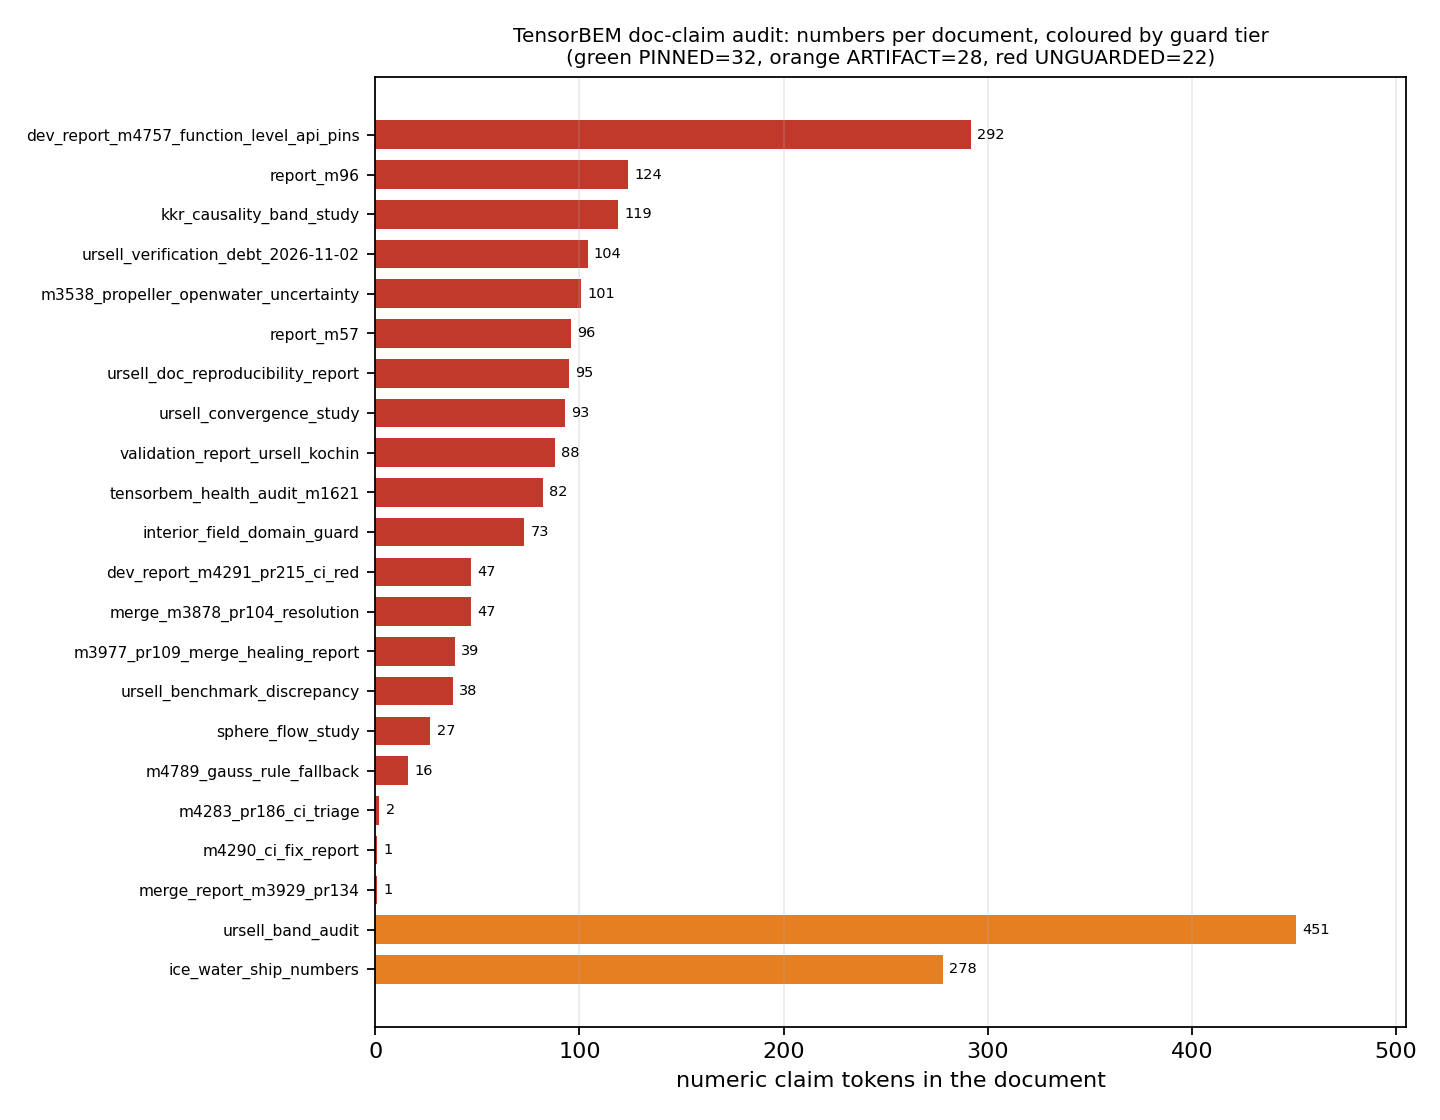
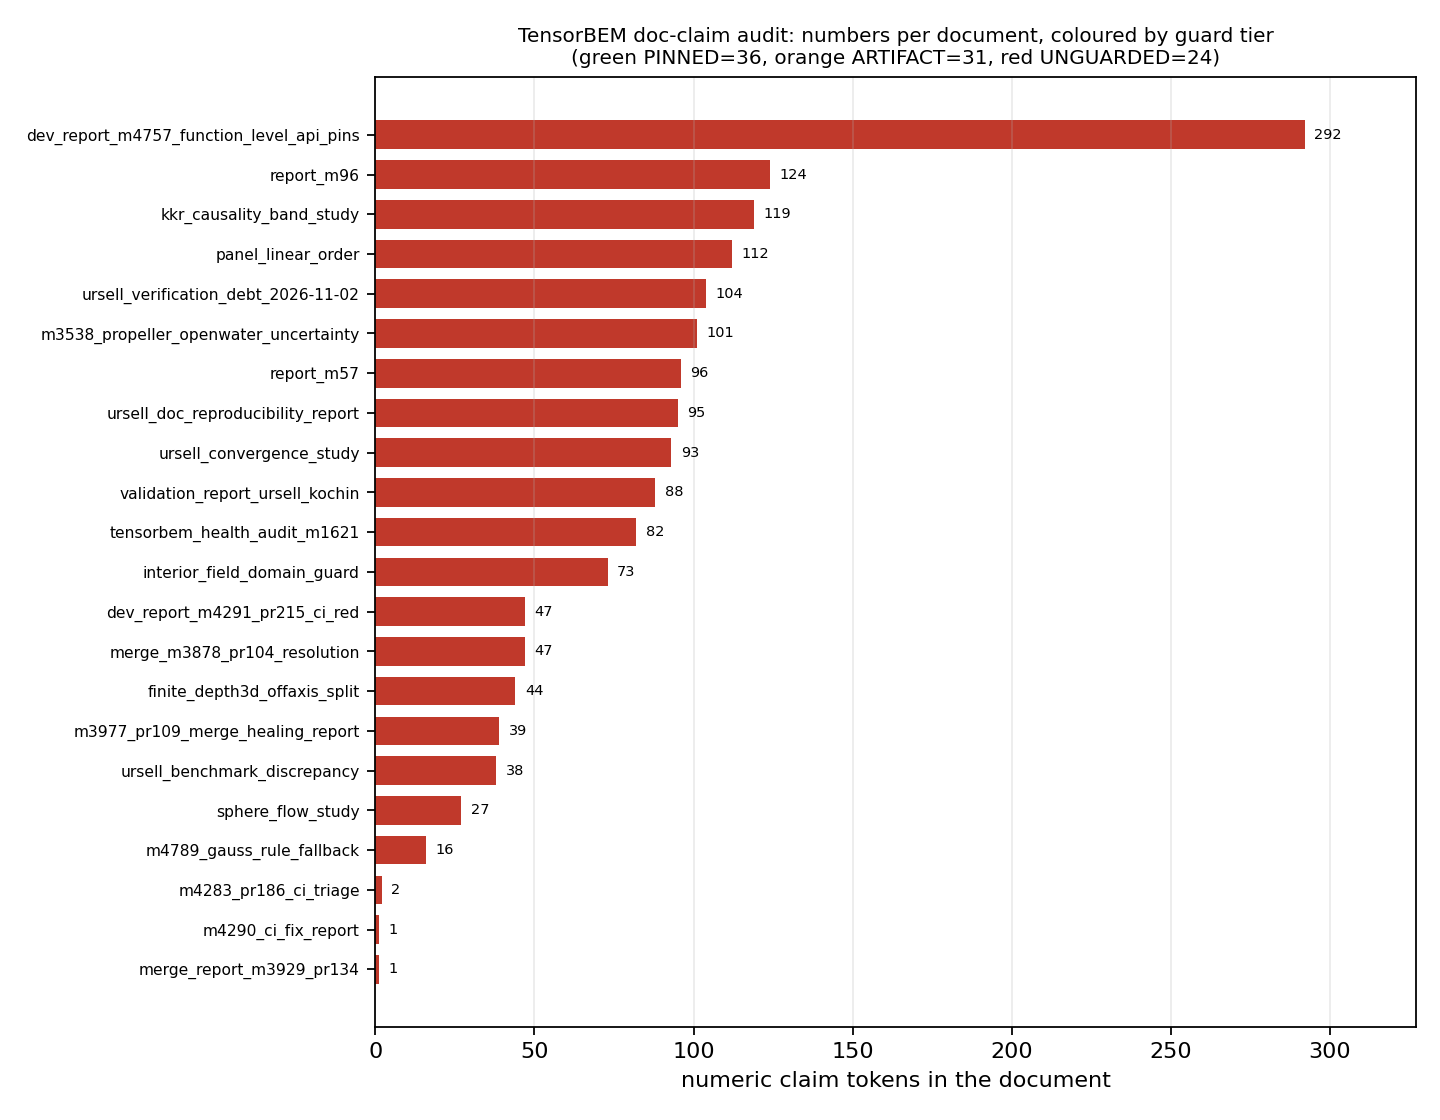
m6354: matured mission deliverables（5 个文件被门禁滤除）

diff --git a/tests/test_maruo_drift.py b/tests/test_maruo_drift.py
@@ -26,7 +26,9 @@ control-surface derivation in ``tensorbem.drift.far_field_drift_3d``.
 
 from __future__ import annotations
 
+import json
 import math
+import pathlib
 
 import numpy as np
 import pytest
@@ -306,3 +308,75 @@ def test_report_figures_render(tmp_path):
     driver.figure_resolution(tmp_path / "resolution.png", report)
     assert (tmp_path / "polar.png").stat().st_size > 10_000
     assert (tmp_path / "resolution.png").stat().st_size > 10_000
+
+
+# ---------------------------------------------------------------------------
+# the published m6287 evidence bundle must reproduce a fresh build (m6287)
+# ---------------------------------------------------------------------------
+def _repo_root():
+    return pathlib.Path(__file__).resolve().parents[1]
+
+
+def _build_report_module():
+    path = _repo_root() / "docs" / "m6287" / "build_report.py"
+    if not path.is_file():
+        pytest.skip("docs/m6287 evidence bundle is absent")
+    import importlib.util
+
+    spec = importlib.util.spec_from_file_location("m6287_build_report", path)
+    module = importlib.util.module_from_spec(spec)
+    spec.loader.exec_module(module)
+    return module
+
+
+def test_docs_m6287_artifact_reproduces_against_the_module(tmp_path):
+    """The JSON and Markdown in docs/m6287 are build output, not prose.
+
+    A fresh build must reproduce both byte for byte (so a hand-edited number or
+    a changed module fails here), and the verdicts it publishes must be the
+    measured ones: the shipped covariant weight inside 3 %, the pre-m6271
+    weight outside the 15 % acceptance limit.
+    """
+    bundle = _repo_root() / "docs" / "m6287"
+    builder = _build_report_module()
+    json_path = bundle / "maruo_general_heading_fix.json"
+    md_path = bundle / "maruo_general_heading_fix.md"
+    recorded = json.loads(json_path.read_text(encoding="utf-8"))
+
+    fresh = builder.main(path=tmp_path / "fresh.json", markdown=tmp_path / "fresh.md")
+    assert fresh["summary"] == recorded["summary"]
+    assert json.loads((tmp_path / "fresh.json").read_text(encoding="utf-8")) == recorded
+    assert (tmp_path / "fresh.md").read_text(encoding="utf-8") == md_path.read_text(encoding="utf-8")
+
+    summary = recorded["summary"]
+    assert summary["rel_err_covariant_max"] < 0.03
+    assert summary["closed_form_within_3pct_covariant"] is True
+    assert summary["rel_err_legacy_max"] > 0.15
+    assert summary["closed_form_within_15pct_legacy"] is False
+    assert summary["worst_legacy_heading_deg"] == pytest.approx(180.0)
+
+    beam = recorded["key_cases"]["beam_seas"]
+    # the pre-m6271 weight annihilated the beam-sea side force; the shipped one does not
+    assert abs(beam["fx_legacy"]) < 1e-6
+    assert beam["fx_covariant"] < -1e3
+    assert beam["rel_err_legacy"] > 0.3
+
+
+def test_docs_m6287_figure_renders(tmp_path):
+    pytest.importorskip("matplotlib")
+    import importlib.util
+
+    path = _repo_root() / "docs" / "m6287" / "render_report.py"
+    if not path.is_file():
+        pytest.skip("docs/m6287 evidence bundle is absent")
+    spec = importlib.util.spec_from_file_location("m6287_render_report", path)
+    module = importlib.util.module_from_spec(spec)
+    spec.loader.exec_module(module)
+
+    report = json.loads(
+        (_repo_root() / "docs" / "m6287" / "maruo_general_heading_fix.json").read_text(encoding="utf-8")
+    )
+    out = module.render(report, tmp_path / "fig1.png")
+    assert out.stat().st_size > 20_000
+    published = _repo_root() / "docs" / "m6287" / "figures" / "fig1_heading_error.png"
+    assert published.is_file() and published.stat().st_size > 20_000

diff --git a/src/tensorbem/capability_evidence.py b/src/tensorbem/capability_evidence.py
@@ -601,6 +601,31 @@ CAPABILITIES: tuple[Capability, ...] = (
         note='Absent from the 2026-10-29 table; the capability existed there as prose only.',
     ),
     Capability(
+        key='maruo-far-field-drift',
+        title='Maruo far-field mean drift force at arbitrary heading',
+        claim=(
+            'The azimuthal Maruo integral with the frame-covariant weight e_beta - e_theta '
+            'reproduces the closed-form drift force (rho g/4)(2 pi C^2 e_beta - a pi C^2 e_gamma) '
+            'of a Kochin pattern |K|^2 = C^2 (1 + a cos(theta - gamma)) at every heading to '
+            '< 1e-5 relative, and rotating body and incident waves together by alpha rotates '
+            'the force by alpha (residual < 1e-9).'
+        ),
+        level=REAL,
+        modules=('tensorbem.maruo_drift',),
+        symbols=('maruo_mean_drift_force', 'maruo_mean_drift_force_general'),
+        tests=(
+            'tests/test_maruo_drift.py::test_isotropic_kochin_pushes_along_propagation',
+            'tests/test_maruo_drift.py::test_closed_form_for_rotated_scattering_pattern',
+            'tests/test_maruo_drift.py::test_rotational_covariance',
+            'tests/test_maruo_drift.py::test_beam_and_following_seas_for_asymmetric_scatterer',
+        ),
+        docs=(('docs/maruo_drift.md', 'Maruo'),),
+        note=(
+            'The reference is the closed-form azimuthal integral of the same far-field theory, not '
+            'experimental drift data; the sampled Kochin table, not n_theta, sets the accuracy floor.'
+        ),
+    ),
+    Capability(
         key='time-domain-memory-kernel',
         title='Time-domain radiation memory kernel (Cummins equation)',
         claim='The Fourier round trip returns A and B for an exact exponential pair and the Cummins free decay reproduces the auxiliary-ODE characteristic decay.',
@@ -745,10 +770,6 @@ UNTESTED_MODULES: dict[str, str] = {
         "matplotlib helper rendering report figures from JSON artifacts; exercised during figure builds.",
     "tensorbem.benchmarks.ursell_quadrature_study":
         "one-off quadrature study superseded by tests/test_ursell_quadrature_convergence.py.",
-    "tensorbem.maruo_drift":
-        "azimuthal-quadrature wrapper around the Maruo far-field integral; graded through the"
-        " second-order-drift row, but it has no dedicated numeric anchor of its own yet -- that"
-        " anchor is owed, and this entry records the debt instead of hiding it.",
     "tensorbem.benchmarks.panel_linear_order":
         "study driver that writes docs/panel_linear_order/study.json and its figures; the operator it"
         " drives is pinned by tests/test_panel_linear_order.py and graded by the linear-panel-operators row.",
@@ -1287,7 +1308,9 @@ def write_document(root: pathlib.Path | None = None) -> pathlib.Path:
     except ValueError:
         text = text.rstrip() + "\n\n" + BEGIN_MARKER + "\n\n" + END_MARKER + "\n"
         published = extract_document_block(text)
-    expected = render_document_block(audit(root), untested_modules(root))
+    expected = render_document_block(
+        audit(root), untested_modules(root), capability_coverage(root)
+    )
     path.write_text(text.replace(published, expected), encoding="utf-8")
     return path
 

diff --git a/tests/test_capability_evidence.py b/tests/test_capability_evidence.py
@@ -251,3 +251,60 @@ def test_seeded_randomness_is_not_treated_as_a_mock(tmp_path: pathlib.Path, monk
                    tmp_path, ce._test_nodes(tmp_path))
     assert row.level == ce.WITHHELD  # only the doc anchor is missing, not MOCK
     assert row.mock_markers == []
+
+
+# ---------------------------------------------------------------------------
+# the refresh path must reproduce the block the drift check compares (m6287)
+# ---------------------------------------------------------------------------
+def test_write_document_refreshes_the_block_it_compares(
+    tmp_path: pathlib.Path, monkeypatch: pytest.MonkeyPatch
+) -> None:
+    """``--write`` used to drop the capability-coverage section.
+
+    ``write_document`` rendered the block without ``capability_coverage``, so a
+    document refreshed through the tool could never satisfy ``document_drift``:
+    every hand-edit was reported as drift but the repair path produced a
+    *different* incomplete block.  The published baseline is copied to a
+    scratch path, hand-damaged, refreshed, and must come back drift-free.
+    """
+    root = ce.repo_root()
+    copy = tmp_path / "audit_baseline.md"
+    damaged = (root / ce.BASELINE_DOC).read_text(encoding="utf-8").replace(
+        "### Capability coverage", "### Coverage (edited by hand)"
+    )
+    assert "edited by hand" in damaged
+    copy.write_text(damaged, encoding="utf-8")
+    monkeypatch.setattr(ce, "BASELINE_DOC", str(copy))
+
+    assert ce.document_drift(root) is not None
+    ce.write_document(root)
+    assert ce.document_drift(root) is None
+    refreshed = copy.read_text(encoding="utf-8")
+    assert "### Capability coverage" in refreshed
+    assert "unowned" in refreshed
+
+
+def test_maruo_drift_is_graded_by_an_anchor_of_its_own() -> None:
+    """The Maruo far-field row owns its numeric anchor; the debt entry is gone."""
+    rows = {row.capability.key: row for row in ce.audit()}
+    row = rows["maruo-far-field-drift"]
+    assert row.level == ce.REAL, (row.level, row.reasons)
+    assert row.test_nodes >= 4
+    assert not row.missing_tests and not row.missing_docs and not row.missing_symbols
+    assert row.capability.modules == ("tensorbem.maruo_drift",)
+    # the module has a suite, so a "no dedicated anchor" reason would be a lie
+    assert "tensorbem.maruo_drift" not in ce.UNTESTED_MODULES
+    assert ce.untested_modules(ce.repo_root())["stale_reasons"] == []
+
+
+def test_every_untested_reason_is_still_true() -> None:
+    """A reason that names a superseding suite must name a suite that exists."""
+    root = ce.repo_root()
+    inventory = ce.untested_modules(root)
+    assert inventory["stale_reasons"] == []
+    for module in inventory["explained"]:
+        reason = ce.UNTESTED_MODULES[module]
+        for token in reason.replace(",", " ").split():
+            token = token.rstrip(".,;:)")
+            if token.startswith("tests/") and token.endswith(".py"):
+                assert (root / token).is_file(), (module, token)

diff --git a/docs/doc_claim_audit.md b/docs/doc_claim_audit.md
@@ -6,27 +6,29 @@
 
 | 指标 | 值 |
 |---|---:|
-| 被审计文档数 | 82 |
-| PINNED（测试直接解析文档） | 32 |
-| ARTIFACT（生成模块被测、文档文本未解析） | 28 |
-| UNGUARDED（无人守） | 22 |
-| 其中论文级 UNGUARDED | 8 |
-| 数字 token 总数 | 9235 |
-| 已守数字 token | 7750 |
-| 数字覆盖率 | 83.9% |
-| 文档覆盖率 | 73.2% |
+| 被审计文档数 | 91 |
+| PINNED（测试直接解析文档） | 36 |
+| ARTIFACT（生成模块被测、文档文本未解析） | 31 |
+| UNGUARDED（无人守） | 24 |
+| 其中论文级 UNGUARDED | 10 |
+| 数字 token 总数 | 10555 |
+| 已守数字 token | 8914 |
+| 数字覆盖率 | 84.5% |
+| 文档覆盖率 | 73.6% |
 
 ## 2. 论文级未守文档（按数字量降序，前 15）
 
 | 文档 | 数字 token | 行数 | 声明的生成器 | 现状 |
 |---|---:|---:|---|---|
 | `kkr_causality_band_study.md` | 119 | 176 | — | no declared generator and no reading test |
+| `panel_linear_order.md` | 112 | 124 | `tensorbem.benchmarks.panel_linear_order` | generator never exercised by a test |
 | `ursell_verification_debt_2026-11-02.md` | 104 | 156 | — | no declared generator and no reading test |
 | `m3538_propeller_openwater_uncertainty.md` | 101 | 156 | — | no declared generator and no reading test |
 | `ursell_doc_reproducibility_report.md` | 95 | 58 | — | no declared generator and no reading test |
 | `ursell_convergence_study.md` | 93 | 201 | — | no declared generator and no reading test |
 | `validation_report_ursell_kochin.md` | 88 | 173 | — | no declared generator and no reading test |
 | `interior_field_domain_guard.md` | 73 | 157 | — | no declared generator and no reading test |
+| `finite_depth3d_offaxis_split.md` | 44 | 70 | — | no declared generator and no reading test |
 | `sphere_flow_study.md` | 27 | 6 | — | no declared generator and no reading test |
 
 ## 3. 全部文档分层
@@ -34,14 +36,17 @@
 | document | tier | numbers | lines | generator |
 |---|---|---:|---:|---|
 | `kkr_causality_band_study.md` | UNGUARDED | 119 | 176 | — |
+| `panel_linear_order.md` | UNGUARDED | 112 | 124 | `tensorbem.benchmarks.panel_linear_order` |
 | `ursell_verification_debt_2026-11-02.md` | UNGUARDED | 104 | 156 | — |
 | `m3538_propeller_openwater_uncertainty.md` | UNGUARDED | 101 | 156 | — |
 | `ursell_doc_reproducibility_report.md` | UNGUARDED | 95 | 58 | — |
 | `ursell_convergence_study.md` | UNGUARDED | 93 | 201 | — |
 | `validation_report_ursell_kochin.md` | UNGUARDED | 88 | 173 | — |
 | `interior_field_domain_guard.md` | UNGUARDED | 73 | 157 | — |
+| `finite_depth3d_offaxis_split.md` | UNGUARDED | 44 | 70 | — |
 | `sphere_flow_study.md` | UNGUARDED | 27 | 6 | — |
 | `ice_water_ship_numbers.md` | ARTIFACT | 278 | 101 | `tensorbem.benchmarks.ice_ship_verification` |
+| `michell_validation.md` | ARTIFACT | 255 | 351 | `tensorbem.benchmarks.michell_validation` |
 | `irregular_frequency_study.md` | ARTIFACT | 233 | 180 | `tensorbem.benchmarks.irregular_frequency_study` |
 | `near_surface_error_budget.md` | ARTIFACT | 219 | 202 | `tensorbem.benchmarks.near_surface_error_budget` |
 | `ice_water_ship.md` | ARTIFACT | 150 | 344 | `tensorbem.benchmarks.ice_ship_verification` |
@@ -53,6 +58,7 @@
 | `time_domain_pulse.md` | ARTIFACT | 104 | 343 | `tensorbem.benchmarks.time_domain_pulse` |
 | `annulus_multicomponent.md` | ARTIFACT | 102 | 232 | `tensorbem.benchmarks.multicomponent_annulus` |
 | `finite_depth_diffraction.md` | ARTIFACT | 102 | 145 | `tensorbem.benchmarks.finite_depth_diffraction` |
+| `drift_force_report.md` | ARTIFACT | 87 | 167 | `tensorbem.benchmarks.drift_force_study` |
 | `ursell_error_budget.md` | ARTIFACT | 65 | 89 | `tensorbem.benchmarks.ursell_error_budget` |
 | `long_capsule_2d_limit.md` | ARTIFACT | 62 | 125 | `tensorbem.benchmarks.cylinder_3d_limit` |
 | `finite_depth3d_deepwater_arbitration.md` | ARTIFACT | 60 | 200 | `tensorbem.benchmarks.finite_depth3d_deepwater_arbitration` |
@@ -62,12 +68,16 @@
 | `two_cylinder_added_mass.md` | ARTIFACT | 38 | 145 | `tensorbem.benchmarks.two_cylinder_added_mass` |
 | `doc_claim_gate_portability.md` | ARTIFACT | 36 | 122 | `tensorbem.doc_claims` |
 | `readme_claim_inventory.md` | ARTIFACT | 20 | 140 | `tensorbem.benchmarks.doc_inventory` |
+| `capability_registry_coverage.md` | ARTIFACT | 0 | 118 | `tensorbem.benchmarks.capability_coverage_study`, `tensorbem.capability_evidence` |
 | `marine_bem_benchmarks.md` | PINNED | 701 | 667 | `tensorbem.benchmarks.cylinder_added_mass`, `tensorbem.benchmarks.sphere_added_mass`, `tensorbem.benchmarks.three_dimensional_study`, `tensorbem.benchmarks.ursell_cylinder`, `tensorbem.benchmarks.ursell_convergence_table`, `tensorbem.benchmarks.rigid_body_added_mass`, `tensorbem.benchmarks.dean_diffraction`, `tensorbem.benchmarks.maccamy_fuchs`, `tensorbem.benchmarks.floating_hemisphere`, `tensorbem.benchmarks.declared_numbers`, `tensorbem.benchmarks.submerged_sphere_wave` |
 | `hydrostatic_restoring_waterplane_curvature.md` | PINNED | 415 | 199 | `tensorbem.benchmarks.hydrostatic_restoring_pins` |
 | `finite_depth_envelope.md` | PINNED | 362 | 172 | `tensorbem.benchmarks.finite_depth_envelope` |
+| `panel_operator_order.md` | PINNED | 323 | 240 | `tensorbem.benchmarks.panel_operator_order` |
 | `three_dimensional_bem.md` | PINNED | 271 | 570 | `tensorbem.benchmarks.mesh_doc_pins`, `tensorbem.benchmarks.sphere_added_mass`, `tensorbem.benchmarks.three_dimensional_study`, `tensorbem.benchmarks.sphere_velocity`, `tensorbem.benchmarks.surface_velocity_study`, `tensorbem.benchmarks.three_dimensional_doc_pins`, `tensorbem.benchmarks.prose_claims` |
 | `lifting_camber.md` | PINNED | 244 | 152 | `tensorbem.benchmarks.lifting_camber` |
+| `bem_verified_anchors.md` | PINNED | 228 | 238 | `tensorbem.benchmarks.bem_verified_anchors` |
 | `classical_benchmarks.md` | PINNED | 209 | 376 | `tensorbem.benchmarks.declared_numbers`, `tensorbem.benchmarks.interior_harmonics`, `tensorbem.benchmarks.ellipse_added_mass`, `tensorbem.benchmarks.ellipsoid_added_mass`, `tensorbem.benchmarks.classical_study` |
+| `bem_hydroelastic.md` | PINNED | 176 | 197 | `tensorbem.benchmarks.hydroelastic_verification` |
 | `lifting_kutta_closure.md` | PINNED | 174 | 112 | `tensorbem.benchmarks.lifting_solver` |
 | `annulus_laplace.md` | PINNED | 158 | 199 | `tensorbem.benchmarks.annulus_laplace` |
 | `verification.md` | PINNED | 132 | 255 | `tensorbem.benchmarks.analytical_suite` |
@@ -77,6 +87,7 @@
 | `mixed_boundary_conditions.md` | PINNED | 107 | 186 | `tensorbem.benchmarks.mixed_boundary` |
 | `wigley_wave_resistance.md` | PINNED | 105 | 384 | `tensorbem.benchmarks.wigley_verification` |
 | `finite_depth3d_offaxis_diagnosis.md` | PINNED | 98 | 268 | — |
+| `maruo_drift.md` | PINNED | 95 | 206 | `tensorbem.benchmarks.maruo_drift_verification` |
 | `finite_depth3d_regime.md` | PINNED | 80 | 143 | — |
 | `hydrostatic_restoring_couplings.md` | PINNED | 80 | 137 | — |
 | `six_dof_matrix_algebra.md` | PINNED | 78 | 166 | `tensorbem.benchmarks.six_dof_matrix_algebra` |
@@ -104,12 +115,3 @@
 | `audit_m56_final.md` | ARTIFACT | 91 | 214 | `tensorbem.benchmarks.ursell_cylinder`, `tensorbem.benchmarks.floating_hemisphere` |
 | `dev_report_tensorbem-ursell-band-audit.md` | ARTIFACT | 65 | 80 | `tensorbem.benchmarks.ursell_band_audit` |
 | `dev_report_m4741_hydrostatic_restoring_pins.md` | ARTIFACT | 34 | 110 | `tensorbem.benchmarks.hydrostatic_restoring_pins` |
-| `dev_report_m4614_doc_claim_audit_ratchet.md` | ARTIFACT | 8 | 251 | `tensorbem.benchmarks.doc_claim_audit` |
-| `dev_report_m4317_pr209_capability_baseline.md` | ARTIFACT | 0 | 94 | `tensorbem.capability_evidence` |
-| `project_review_2026-10-22.md` | PINNED | 227 | 522 | `tensorbem.benchmarks.unit_disk`, `tensorbem.benchmarks.cylinder_added_mass`, `tensorbem.benchmarks.refinement_study`, `tensorbem.benchmarks.analytical_suite`, `tensorbem.benchmarks.sphere_added_mass`, `tensorbem.benchmarks.sphere_velocity`, `tensorbem.benchmarks.surface_velocity_study`, `tensorbem.benchmarks.three_dimensional_study` |
-| `ursell_provenance_audit.md` | PINNED | 220 | 203 | `tensorbem.benchmarks.ursell_cylinder` |
-| `finite_depth_radiation.md` | PINNED | 104 | 142 | `tensorbem.benchmarks.finite_depth_radiation` |
-| `ursell_quadrature_provenance.md` | PINNED | 67 | 93 | — |
-| `audit_baseline.md` | PINNED | 63 | 181 | `tensorbem.capability_evidence` |
-| `mutation_audit_tensorbem.md` | PINNED | 56 | 112 | `tensorbem.benchmarks.mutation_audit` |
-| `dev_report_m4796_ci_red_fix.md` | PINNED | 38 | 160 | — |

diff --git a/docs/audit_baseline.md b/docs/audit_baseline.md
@@ -138,6 +138,7 @@ correction log inside the generated block records what changed.
 | Benchmark drivers expose a runnable entry point | **REAL** | `tensorbem.benchmarks.finite_depth_kernel`, `tensorbem.benchmarks.hulme_diffraction_verification` (+5) | 2 node(s) in 1 file(s) | `docs/audit_baseline.md` |
 | Machine-derived capability evidence registry | **REAL** | `tensorbem.capability_evidence` | 2 node(s) in 1 file(s) | `docs/audit_baseline.md` |
 | Second-order mean wave drift force (near field / far field) | **REAL** | `tensorbem.drift`, `tensorbem.drift_force` (+1) | 4 node(s) in 2 file(s) | `docs/drift_second_order/drift_second_order.md` |
+| Maruo far-field mean drift force at arbitrary heading | **REAL** | `tensorbem.maruo_drift` | 4 node(s) in 1 file(s) | `docs/maruo_drift.md` |
 | Time-domain radiation memory kernel (Cummins equation) | **REAL** | `tensorbem.time_domain` | 3 node(s) in 1 file(s) | `docs/time_domain_pulse.md` |
 | Discretisation and recovery uncertainty quantification | **REAL** | `tensorbem.uq`, `tensorbem.recovery_uncertainty` | 3 node(s) in 2 file(s) | `docs/recovery_robustness.md` |
 | Hydroelastic panel modes and the wet/dry frequency ratio | **REAL** | `tensorbem.hydroelastic` | 3 node(s) in 1 file(s) | `docs/bem_hydroelastic.md` |
@@ -148,7 +149,7 @@ correction log inside the generated block records what changed.
 | Near-singular quadrature and conditioning diagnostics | **REAL** | `tensorbem.quadrature_diagnostics`, `tensorbem.quadrature_diagnostics_2d` (+1) | 3 node(s) in 3 file(s) | `docs/capability_registry_coverage.md` |
 | Panel and triangle mesh geometry with closure checks | **REAL** | `tensorbem.geometry`, `tensorbem.geometry3d` | 3 node(s) in 2 file(s) | `docs/three_dimensional_bem.md` |
 
-Counts: **39** REAL — 39 capabilities. The level is derived from code/test/doc evidence by `python -m tensorbem.capability_evidence`; the block is regenerated with `--write` and `tests/test_capability_evidence.py` fails when it stops matching the tree.
+Counts: **40** REAL — 40 capabilities. The level is derived from code/test/doc evidence by `python -m tensorbem.capability_evidence`; the block is regenerated with `--write` and `tests/test_capability_evidence.py` fails when it stops matching the tree.
 
 **Corrections versus the 2026-10-29 baseline** — declared out of scope there, shipped since, and each now carries code plus touching tests:
 
@@ -156,6 +157,12 @@ Counts: **39** REAL — 39 capabilities. The level is derived from code/test/doc
 - **Finite-depth kernels + solver (3-D)** — was `NOT_SUPPORTED`, now `REAL`: `tensorbem.finite_depth3d`, `tensorbem.finite_depth3d_quadrature`, `tensorbem.benchmarks.finite_depth_radiation`; 2 test node(s) in `tests/test_finite_depth3d.py`.
 - **Forward-speed wave resistance (Wigley, Michell/Kochin)** — was `NOT_SUPPORTED`, now `REAL`: `tensorbem.wigley`, `tensorbem.benchmarks.wigley_verification`; 2 test node(s) in `tests/test_wigley_verification.py`, `tests/test_wigley_wave_resistance.py`.
 - **Kutta condition / lifting foil** — was `NOT_SUPPORTED`, now `REAL`: `tensorbem.lifting`, `tensorbem.benchmarks.lifting_foil`; 2 test node(s) in `tests/test_lifting_foil.py`, `tests/test_lifting_flow.py`.
+
+### Capability coverage
+
+53 of 54 core modules (outside `tensorbem.benchmarks`) are named by a row above; 1 more carry an accepted reason, so **0 are unowned**.
+
+- `tensorbem.analytic` — closed-form reference library shared by the benchmark drivers; each reference it exports is graded through the row that consumes it (Ursell, Hulme, MacCamy-Fuchs, added-mass).
 
 ### Untested modules
 
@@ -168,7 +175,6 @@ Not referenced by any test file, with an accepted reason:
 - `tensorbem.benchmarks.ursell_quadrature_study` — one-off quadrature study superseded by tests/test_ursell_quadrature_convergence.py.
 - `tensorbem.benchmarks.wave_loads_minimal` — minimal wave-load report driver; the pressure and force path it reports on is pinned by tests/test_pressure.py and graded by the pressure-forces row.
 - `tensorbem.benchmarks.wave_loads_verification` — wave-load verification driver assembling the same pressure path as wave_loads_minimal; no physics of its own to pin.
-- `tensorbem.maruo_drift` — azimuthal-quadrature wrapper around the Maruo far-field integral; graded through the second-order-drift row, but it has no dedicated numeric anchor of its own yet -- that anchor is owed, and this entry records the debt instead of hiding it.
 
 <!-- capability-matrix:end -->
 
